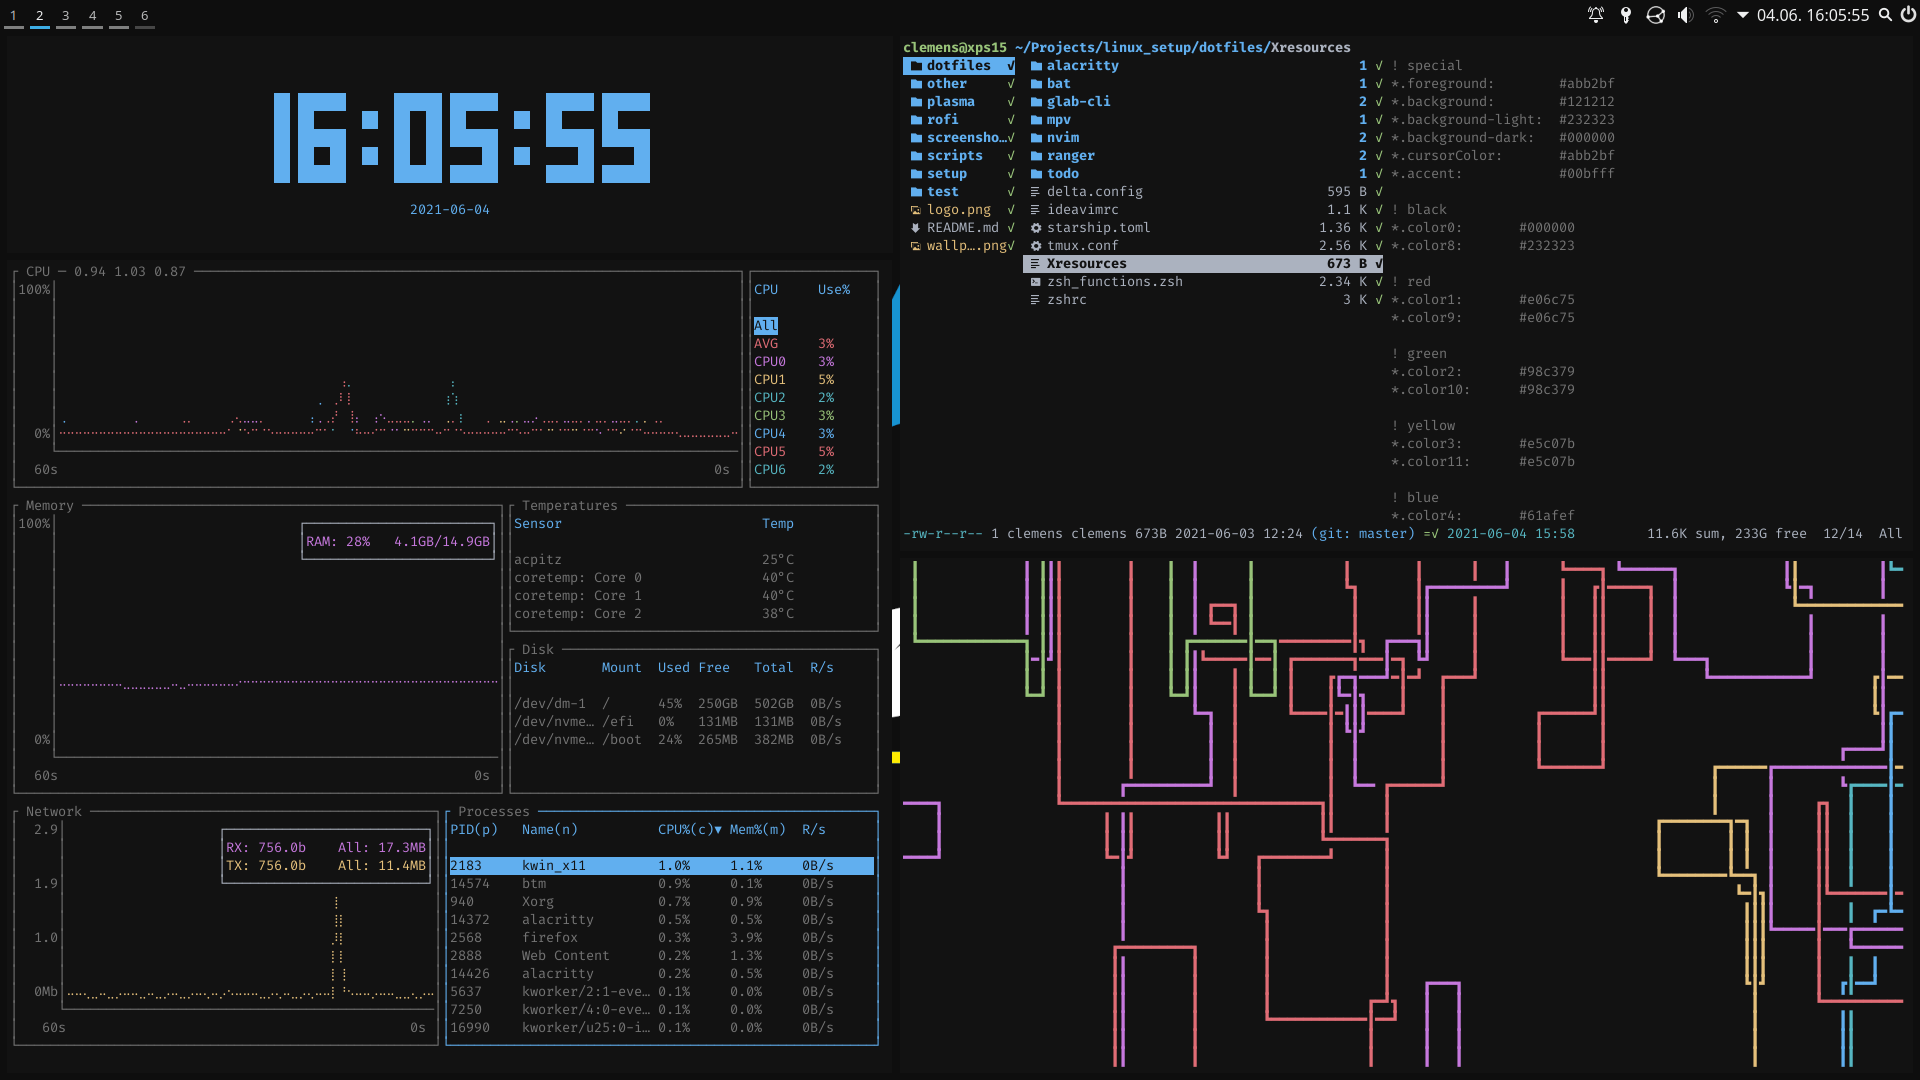
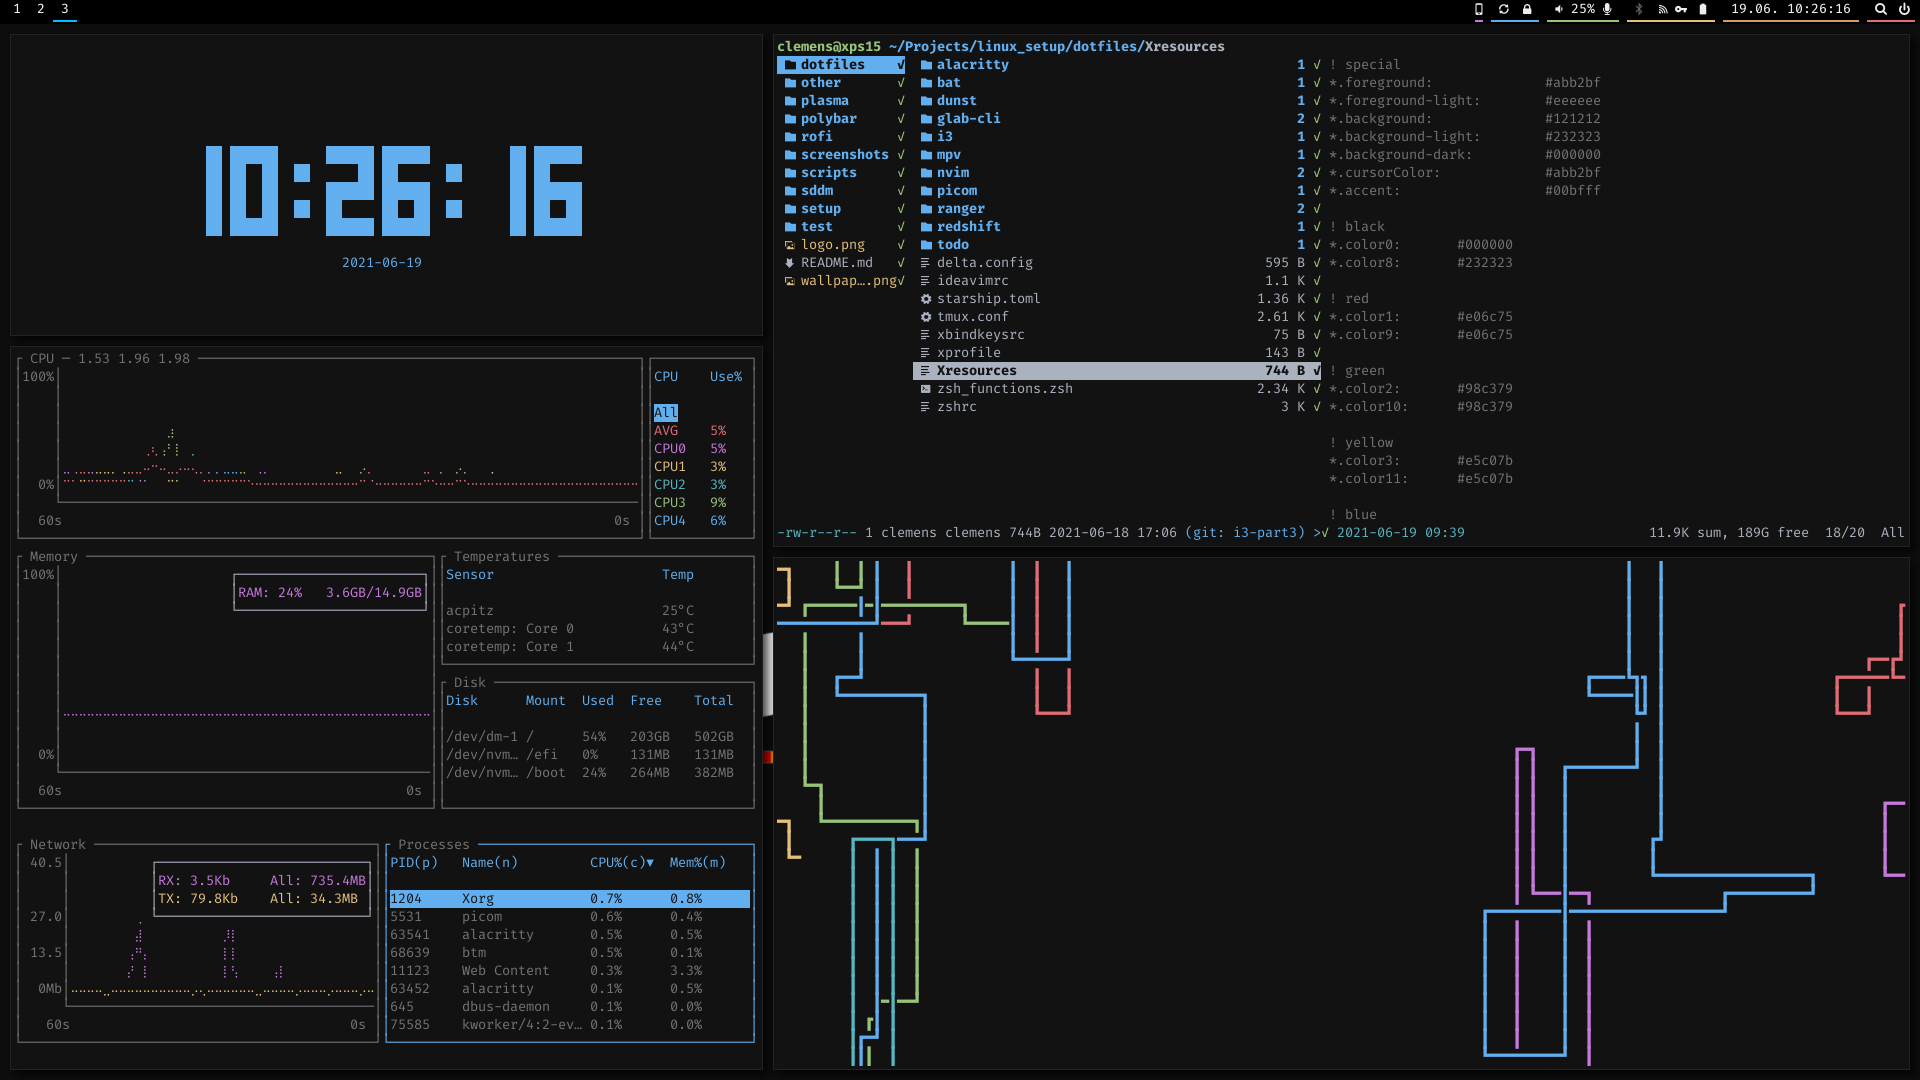
update linux_setup screenshots

diff --git a/pages/linux_setup.vue b/pages/linux_setup.vue
@@ -6,8 +6,8 @@
     <a href="https://github.com/clemak27/linux_setup">dotfiles etc.</a>
     <h4> Some software I use: </h4>
     <ul>
-      <li> Plasma + Kröhnkite + latte-dock </li>
-      <p> After trying out Plasma and GNOME extensivly, I setteled on using Plasma. This mostly came down to Plasma + the KDE framework providing better software and extension support than GNOME, also vastly improved styling options. I also used i3wm for several months, but some issues with picom made me unfortunately reconsider it. Nowadays I'm using KDE together with Kröhnkite, a script that provides automatic tiling. I also use latte-dock, since it is vastly superior to the default panel. </p>
+      <li> i3-gaps </li>
+      <p> After using KDE extensivly, I setteled on using i3 as window manager. I like the automatic tiling and the configuration via dotfiles. </p>
       <li> alacritty </li>
       <p> Fast GPU accelerated terminal emulator. If used Konsole and Kitty before that and while I kinda miss my ligatures, I enjoy alacritty's speed and simplicity. </p>
       <li> neovim </li>
